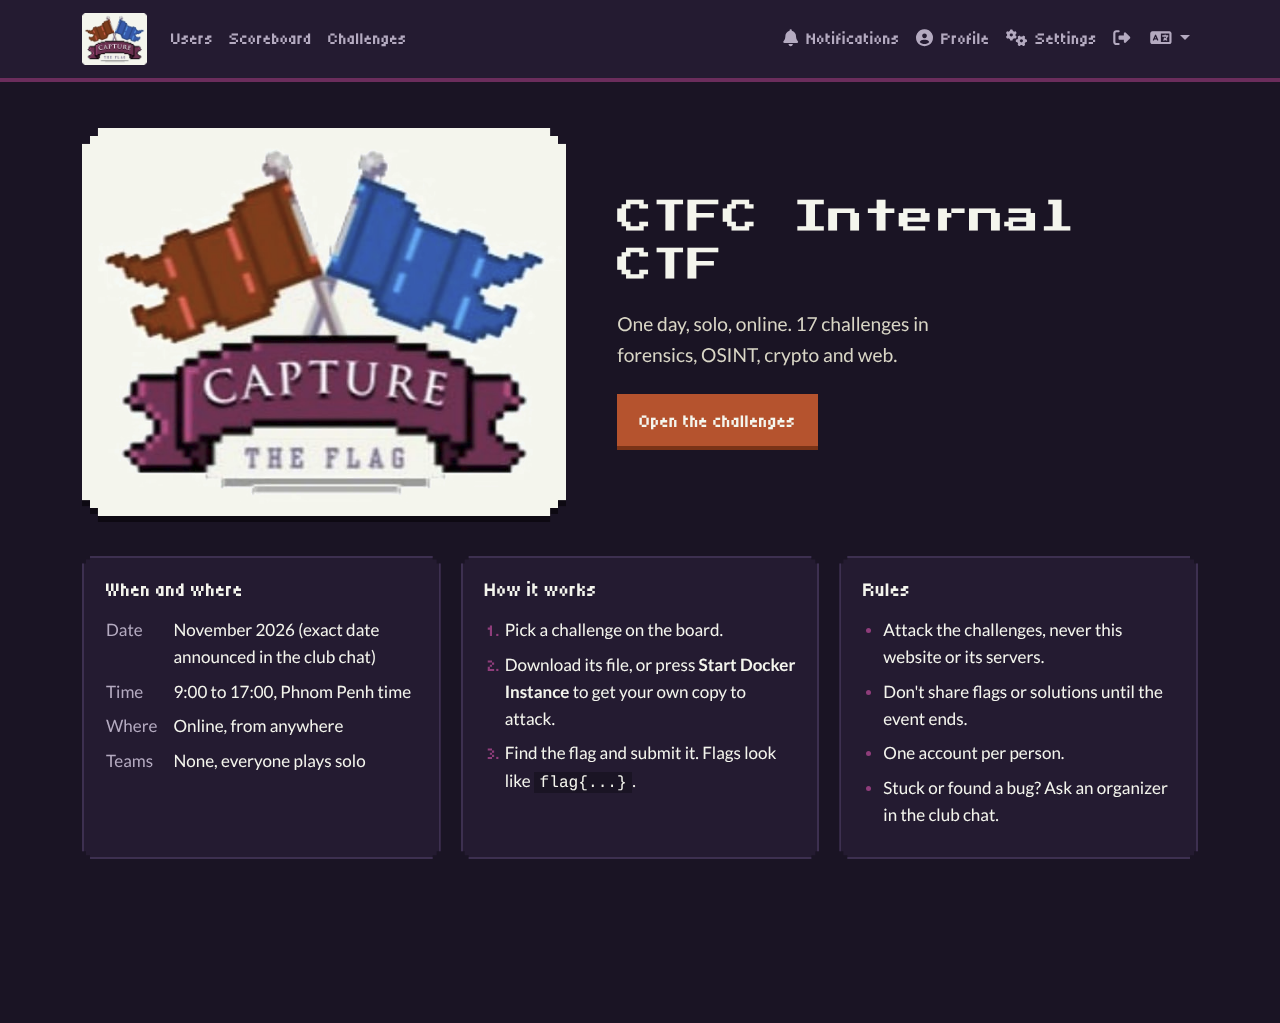
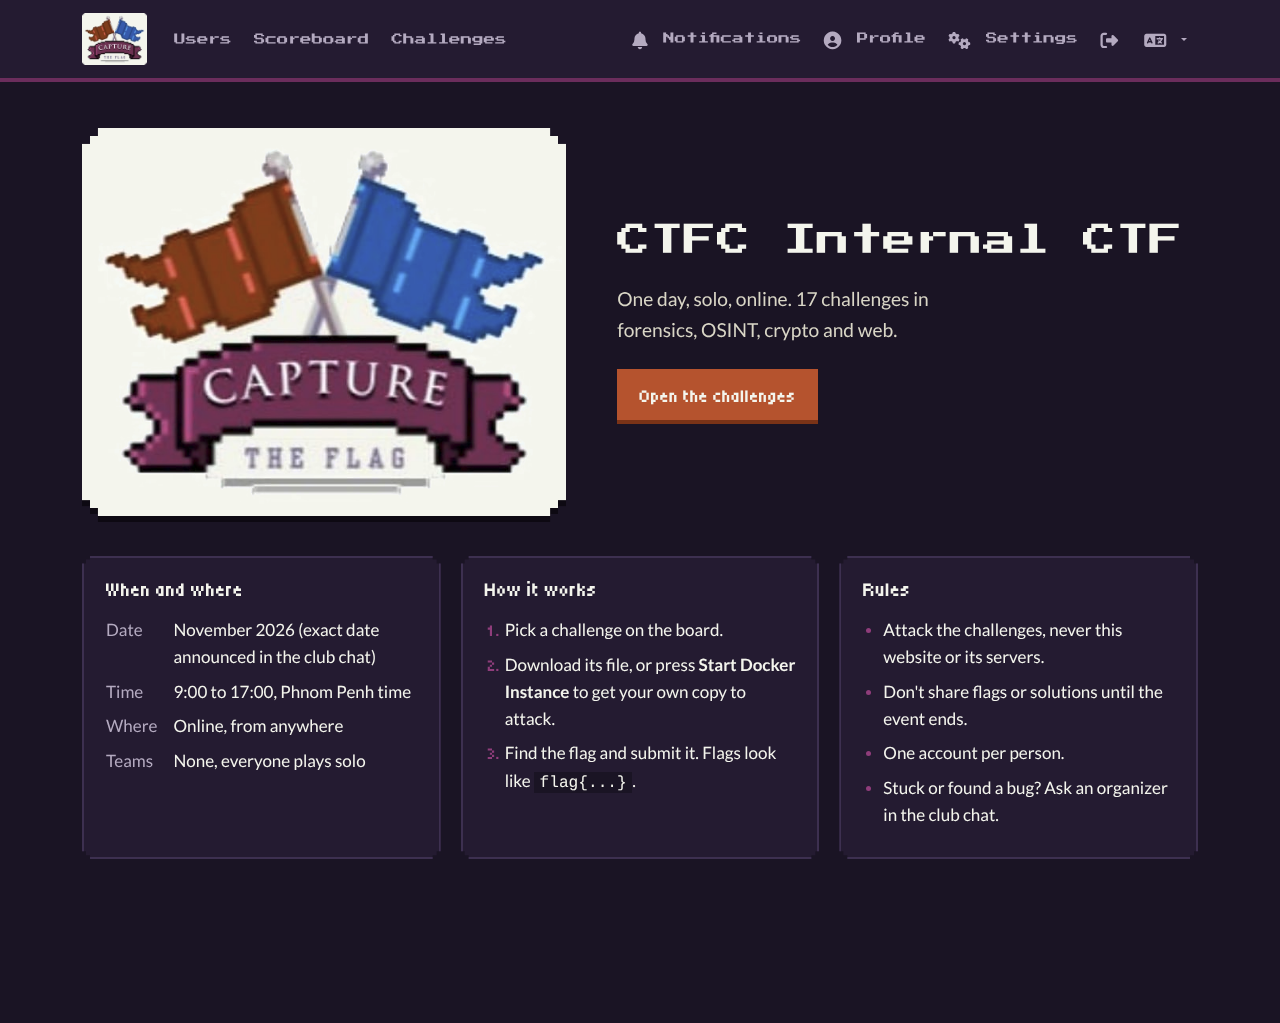
Branding: home title on one line
Claude-Session: https://claude.ai/code/session_01GtYxfJ82XfvRdH1aD2JQkp

Changed region(s): [[0.4688, 0.1818, 0.9375, 0.4545], [0.5, 0.0303, 0.9375, 0.0606], [0.125, 0.0303, 0.4062, 0.0606]]

diff --git a/branding/theme-header.html b/branding/theme-header.html
@@ -181,7 +181,7 @@ form .form-label, form label { color: var(--ctfc-cream); }
 /* ---------- home page (Admin > Pages > index) ---------- */
 .ctfc-hero { display: grid; grid-template-columns: minmax(0, 5fr) minmax(0, 6fr); gap: clamp(1.5rem, 4vw, 3.5rem); align-items: center; padding: clamp(2rem, 6vw, 4.5rem) 0 2.5rem; }
 .ctfc-hero img { width: 100%; height: auto; display: block; filter: drop-shadow(0 6px 0 #0d0912); }
-.ctfc-hero h1 { font-family: var(--ctfc-arcade); font-size: clamp(1.4rem, 3vw, 2.2rem); line-height: 1.35; margin: 0 0 1.25rem; }
+.ctfc-hero h1 { font-family: var(--ctfc-arcade); font-size: clamp(1rem, 2.6vw, 2.1rem); line-height: 1.35; margin: 0 0 1.25rem; white-space: nowrap; }   /* one line: Press Start 2P is 1em per letter */
 .ctfc-hero p { font-size: 1.2rem; color: var(--ctfc-cream-dk); max-width: 34ch; margin: 0 0 1.5rem; }
 .ctfc-cta { display: inline-block; font-family: var(--ctfc-pixel); font-weight: 400; font-size: 1.15rem; text-decoration: none;
   background: var(--ctfc-red); color: var(--ctfc-cream) !important; padding: .8rem 1.4rem; box-shadow: inset 0 -4px 0 var(--ctfc-red-dk); }
